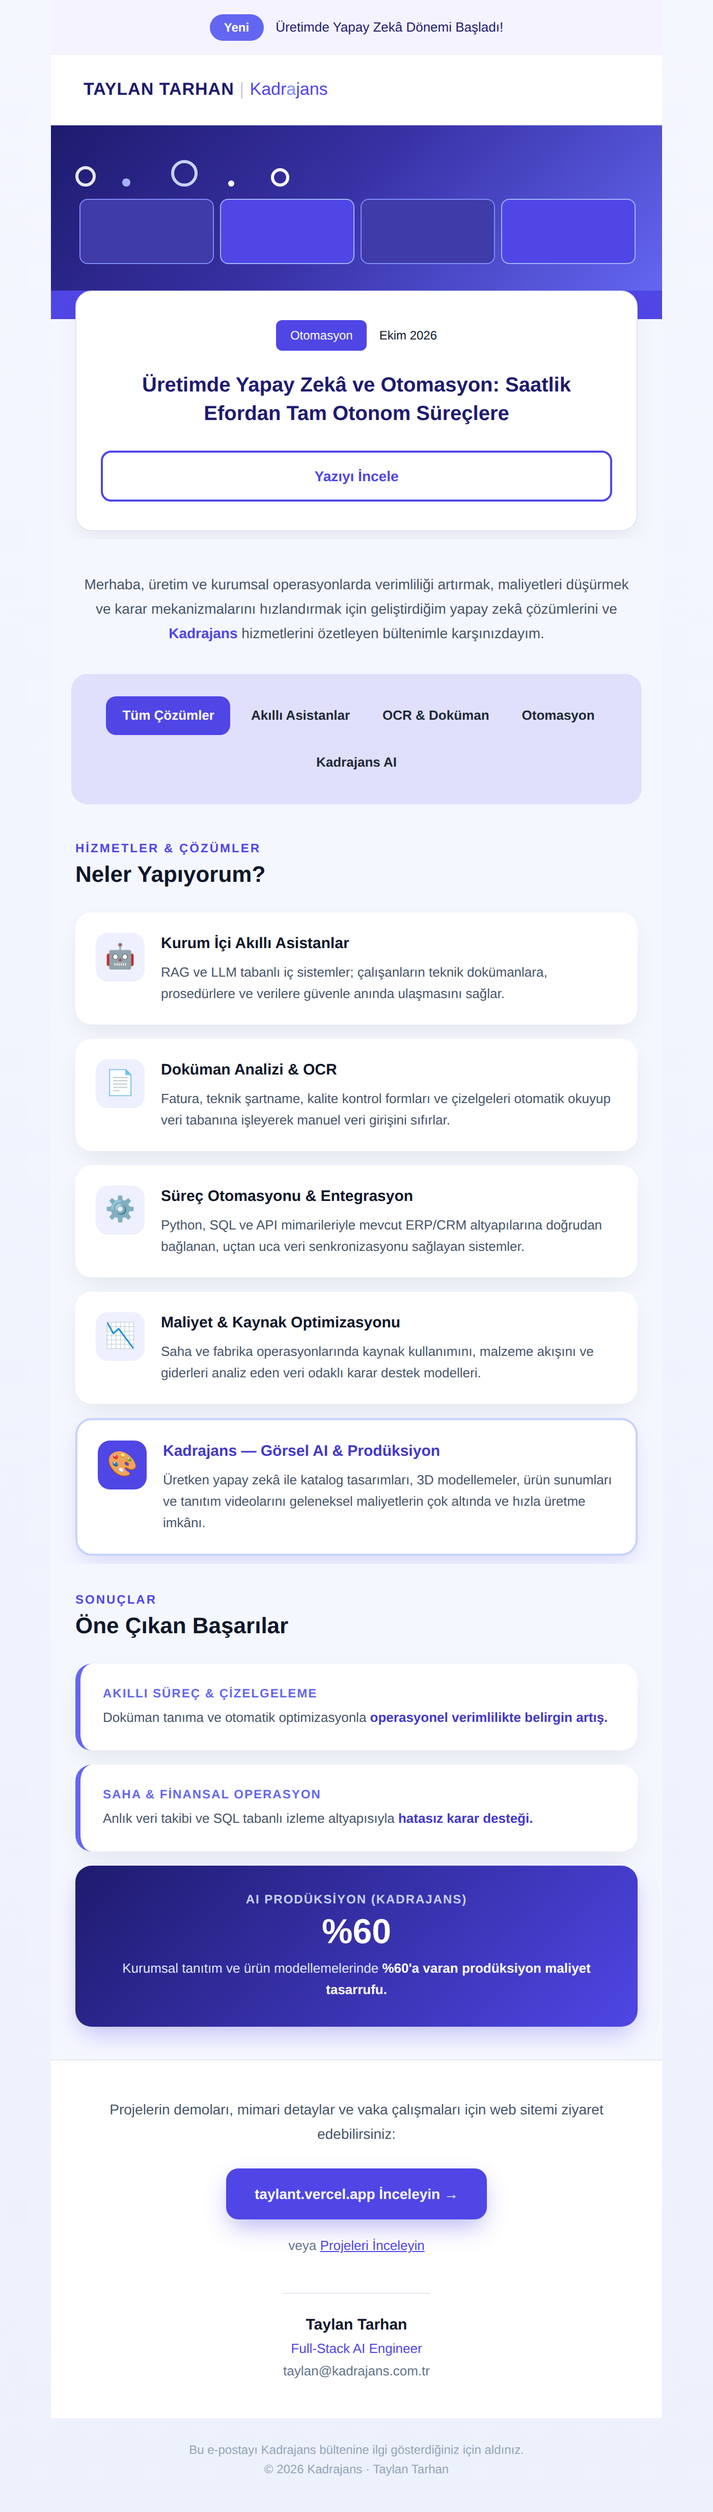
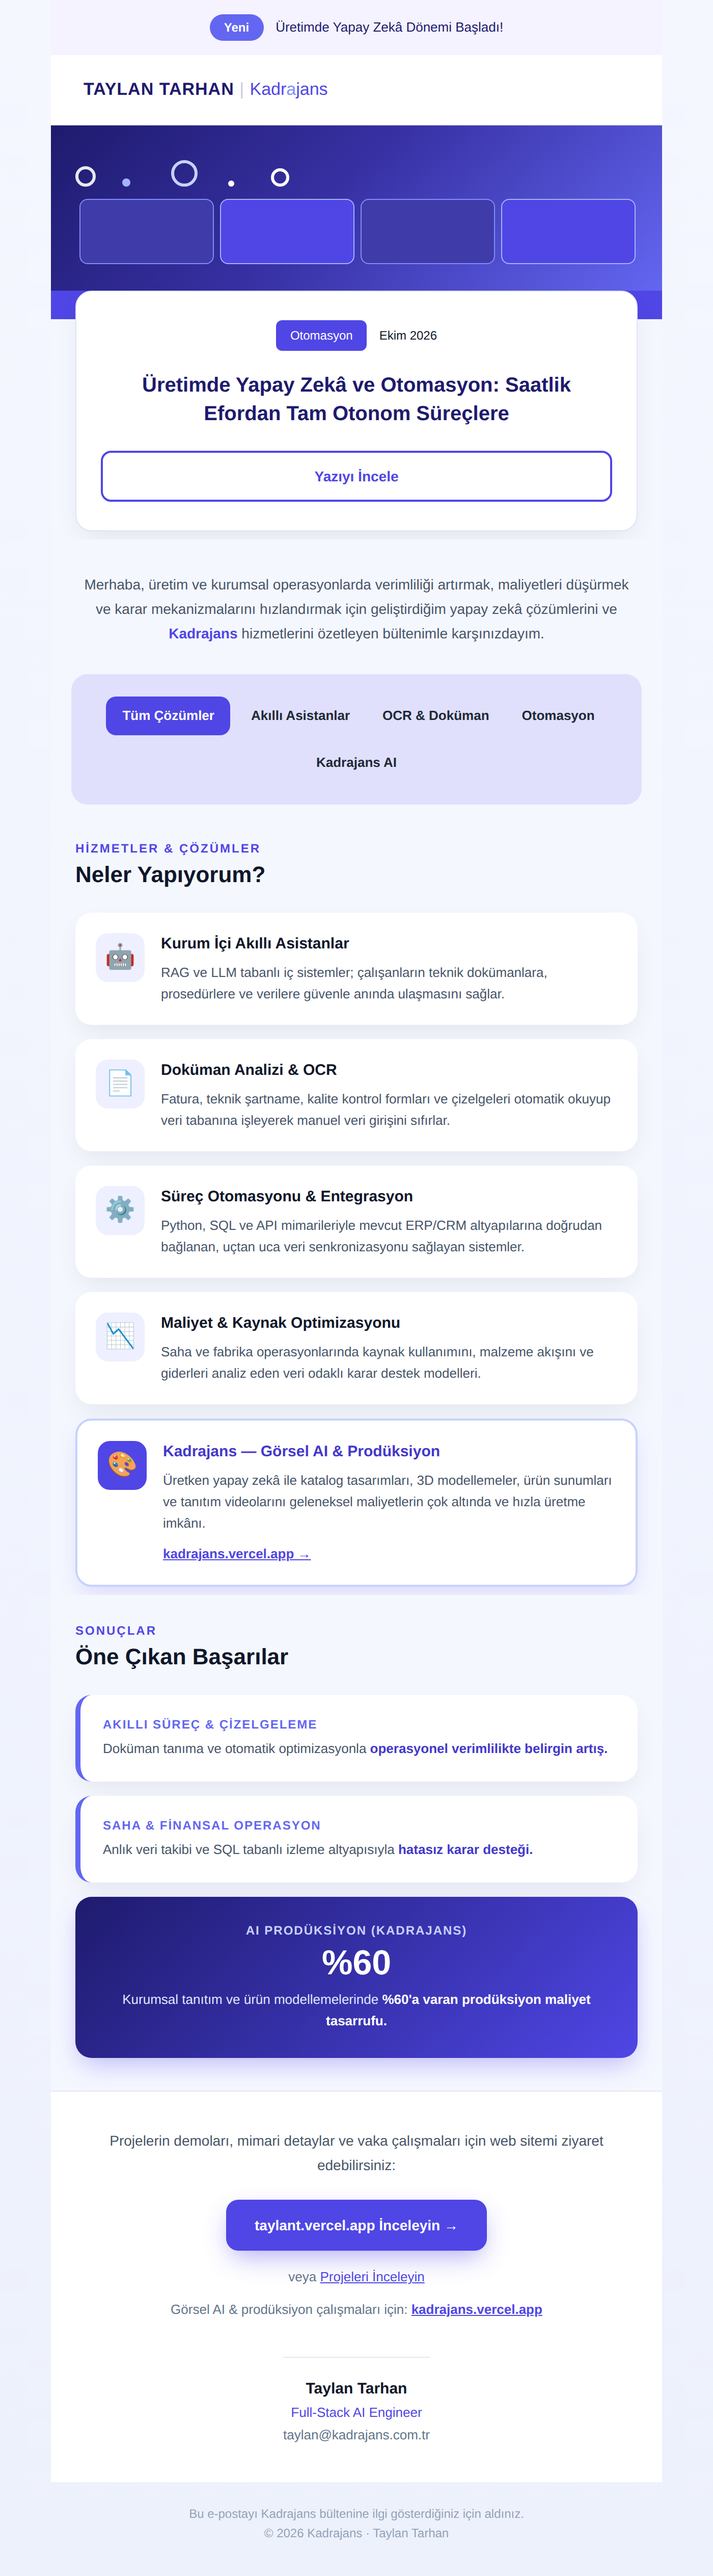
Bültene kadrajans.vercel.app bağlantılarını ekle
Claude-Session: https://claude.ai/code/session_01Dy8T3rEx6MDvU9o5oYD5pN

Changed region(s): [[0.0921, 0.0312, 0.9214, 1.0], [0.7679, 0.4688, 0.8293, 0.5], [0.5529, 0.9688, 0.6143, 1.0]]

diff --git a/newsletter/kadrajans-bulten.html b/newsletter/kadrajans-bulten.html
@@ -132,7 +132,7 @@
       <td bgcolor="#f5f7ff" class="px" align="center" style="background-color:#f5f7ff;padding:20px 20px 28px 20px;">
         <table role="presentation" width="100%" cellpadding="0" cellspacing="0" border="0" bgcolor="#e0e0fc" style="background-color:#e0e0fc;border-radius:16px;">
           <tr><td align="center" style="padding:18px 12px;font-size:0;line-height:0;">
-            <a href="https://taylant.vercel.app" style="display:inline-block;margin:4px;padding:9px 16px;background-color:#4f46e5;border-radius:10px;font-family:'Poppins',Arial,sans-serif;font-size:13px;font-weight:600;color:#ffffff;line-height:20px;">Tüm Çözümler</a><a href="https://taylant.vercel.app" style="display:inline-block;margin:4px;padding:9px 12px;border-radius:10px;font-family:'Poppins',Arial,sans-serif;font-size:13px;font-weight:600;color:#1f2937;line-height:20px;">Akıllı Asistanlar</a><a href="https://taylant.vercel.app" style="display:inline-block;margin:4px;padding:9px 12px;border-radius:10px;font-family:'Poppins',Arial,sans-serif;font-size:13px;font-weight:600;color:#1f2937;line-height:20px;">OCR &amp; Doküman</a><a href="https://taylant.vercel.app" style="display:inline-block;margin:4px;padding:9px 12px;border-radius:10px;font-family:'Poppins',Arial,sans-serif;font-size:13px;font-weight:600;color:#1f2937;line-height:20px;">Otomasyon</a><a href="https://taylant.vercel.app" style="display:inline-block;margin:4px;padding:9px 12px;border-radius:10px;font-family:'Poppins',Arial,sans-serif;font-size:13px;font-weight:600;color:#1f2937;line-height:20px;">Kadrajans AI</a>
+            <a href="https://taylant.vercel.app" style="display:inline-block;margin:4px;padding:9px 16px;background-color:#4f46e5;border-radius:10px;font-family:'Poppins',Arial,sans-serif;font-size:13px;font-weight:600;color:#ffffff;line-height:20px;">Tüm Çözümler</a><a href="https://taylant.vercel.app" style="display:inline-block;margin:4px;padding:9px 12px;border-radius:10px;font-family:'Poppins',Arial,sans-serif;font-size:13px;font-weight:600;color:#1f2937;line-height:20px;">Akıllı Asistanlar</a><a href="https://taylant.vercel.app" style="display:inline-block;margin:4px;padding:9px 12px;border-radius:10px;font-family:'Poppins',Arial,sans-serif;font-size:13px;font-weight:600;color:#1f2937;line-height:20px;">OCR &amp; Doküman</a><a href="https://taylant.vercel.app" style="display:inline-block;margin:4px;padding:9px 12px;border-radius:10px;font-family:'Poppins',Arial,sans-serif;font-size:13px;font-weight:600;color:#1f2937;line-height:20px;">Otomasyon</a><a href="https://kadrajans.vercel.app" style="display:inline-block;margin:4px;padding:9px 12px;border-radius:10px;font-family:'Poppins',Arial,sans-serif;font-size:13px;font-weight:600;color:#1f2937;line-height:20px;">Kadrajans AI</a>
           </td></tr>
         </table>
       </td>
@@ -216,6 +216,7 @@
           <td valign="top" style="padding:20px 20px 20px 16px;">
             <p style="margin:0 0 6px 0;font-family:'Poppins',Arial,sans-serif;font-size:15px;line-height:22px;font-weight:700;color:#4338ca;">Kadrajans — Görsel AI &amp; Prodüksiyon</p>
             <p style="margin:0;font-family:'Poppins',Arial,sans-serif;font-size:13px;line-height:21px;color:#475569;">Üretken yapay zekâ ile katalog tasarımları, 3D modellemeler, ürün sunumları ve tanıtım videolarını geleneksel maliyetlerin çok altında ve hızla üretme imkânı.</p>
+            <p style="margin:10px 0 0 0;font-family:'Poppins',Arial,sans-serif;font-size:13px;line-height:20px;font-weight:600;"><a href="https://kadrajans.vercel.app" target="_blank" style="color:#4f46e5;text-decoration:underline;">kadrajans.vercel.app &rarr;</a></p>
           </td>
         </tr>
       </table>
@@ -267,6 +268,7 @@
           </td>
         </tr></table>
         <p style="margin:16px 0 0 0;font-family:'Poppins',Arial,sans-serif;font-size:13px;line-height:20px;color:#64748b;">veya <a href="https://taylant.vercel.app" style="color:#4f46e5;text-decoration:underline;">Projeleri İnceleyin</a></p>
+        <p style="margin:12px 0 0 0;font-family:'Poppins',Arial,sans-serif;font-size:13px;line-height:20px;color:#64748b;">Görsel AI &amp; prodüksiyon çalışmaları için: <a href="https://kadrajans.vercel.app" target="_blank" style="color:#4f46e5;font-weight:600;text-decoration:underline;">kadrajans.vercel.app</a></p>
       </td>
     </tr>
 
